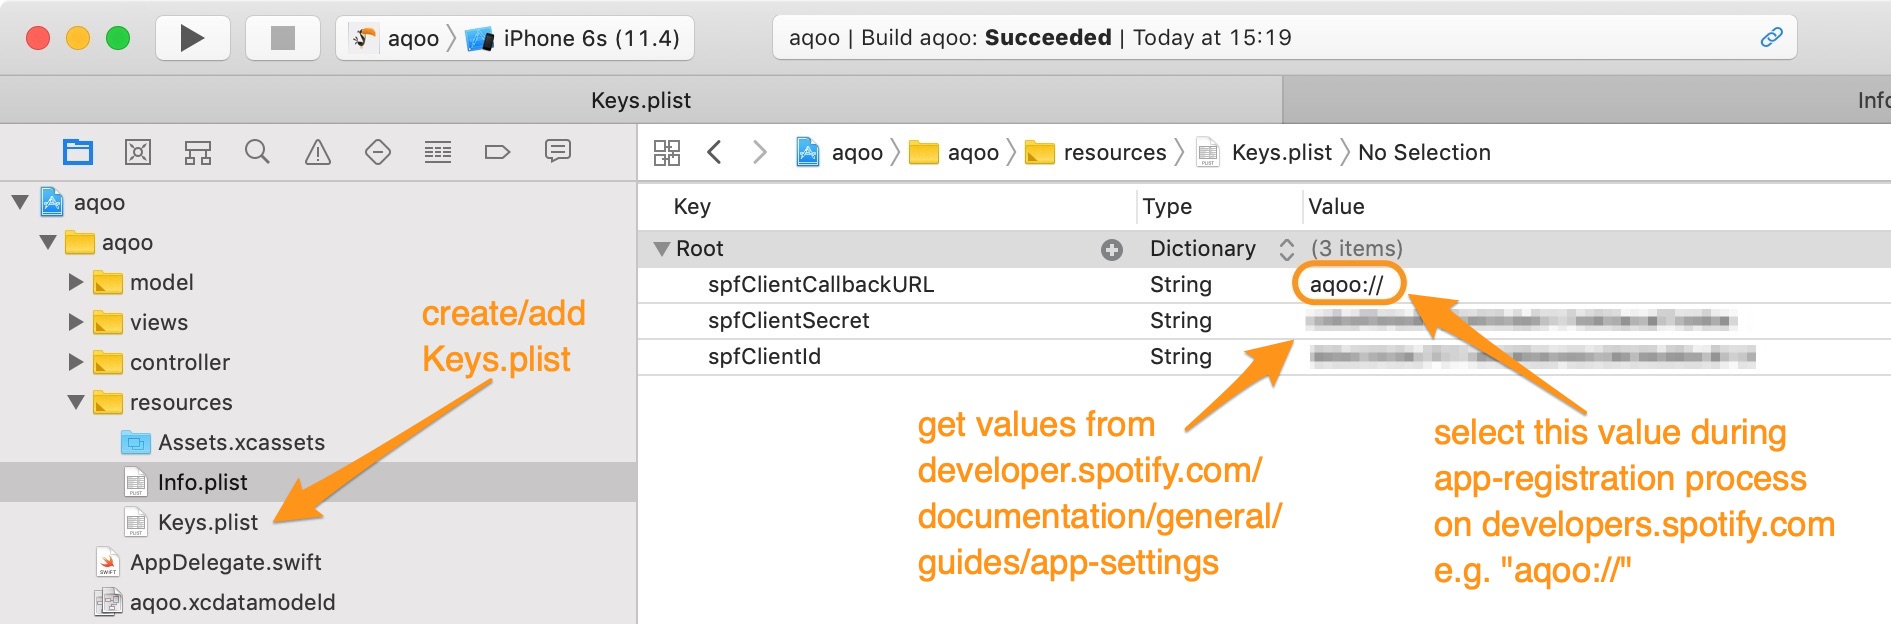
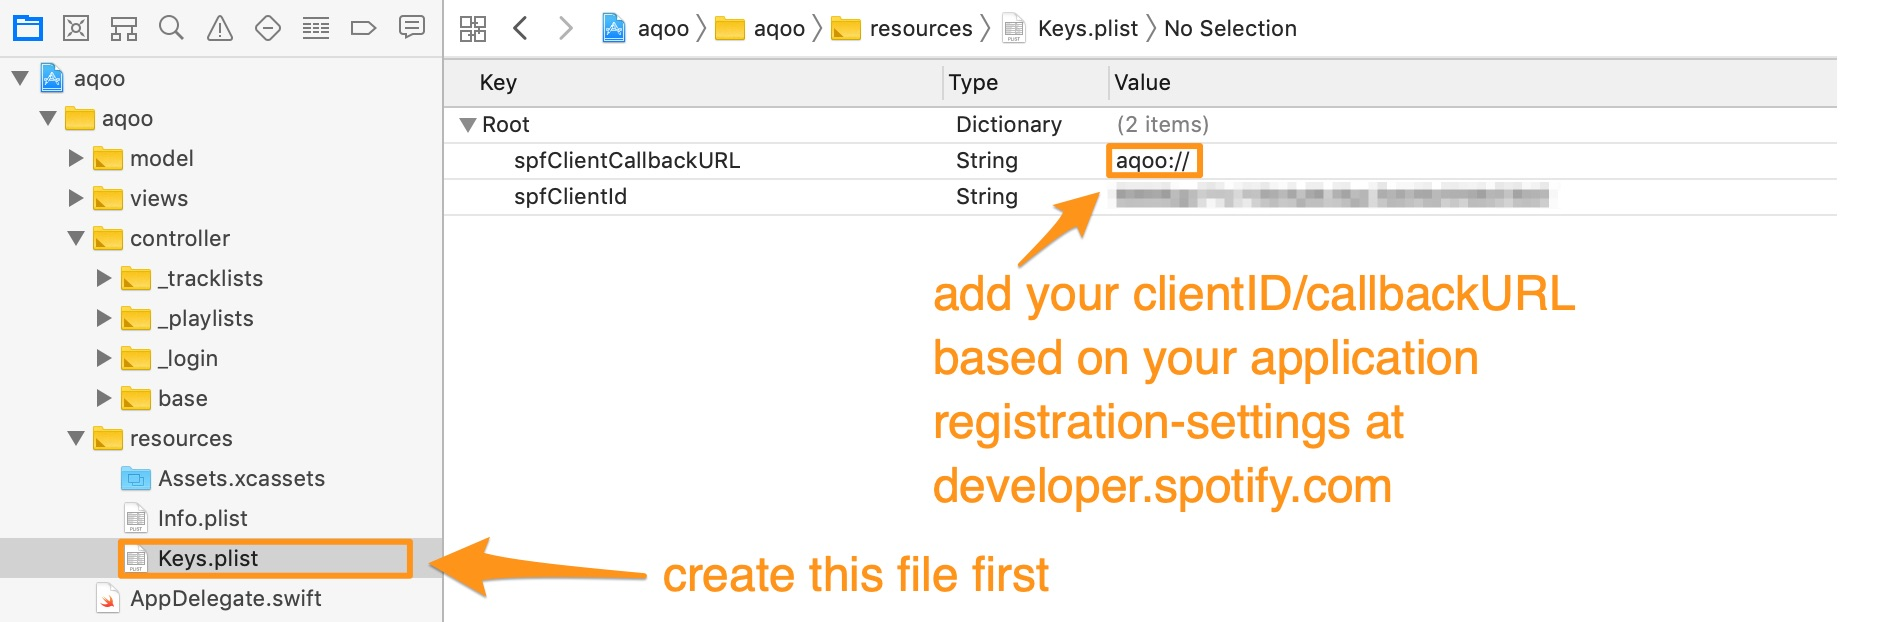
fix: api related key description in documentation

diff --git a/README.md b/README.md
@@ -46,7 +46,7 @@ ToolChain Setup | Build CleanUp
 :-------------------------:|:-------------------------:
 ![ToolChain Config](github/media/xcode_tc_setup_10_marks.jpg)  |  ![Build CleanUp](github/media/xcode_prep_cw.jpg)
 
-5. Add a new property list (plist) file into your project resource group and insert the 3 required keys (```spfClientSecret```, ```spfClientId```, ```spfClientCallbackURL```) for SpotifyAPI authentication. Generate the corresponding values for this keys from spotifies developer app  [registration formular](https://developer.spotify.com/documentation/general/guides/app-settings/#register-your-app). You can find a dedicated tuturial for this process at [medium.com](https://medium.com/@brianhans/getting-started-with-the-spotify-ios-sdk-435607216ecc).
+5. Add a new property list (plist) file into your project resource group and insert the two required keys (```spfClientId``` and ```spfClientCallbackURL```) for APP/SpotifyAPI authentication. Generate the corresponding values for this keys from spotifies developer app  [registration formular](https://developer.spotify.com/documentation/general/guides/app-settings/#register-your-app). You can find a dedicated tuturial for this process at [medium.com](https://medium.com/@brianhans/getting-started-with-the-spotify-ios-sdk-435607216ecc).
 
 ![Keys.plist file](github/media/aq_keys_plist_marks.jpg) 
 
@@ -111,7 +111,7 @@ Tracklist View | Tracklist Playback | Playlist Cover View
 * The cover image cache for the playlists may take a bit time to display the identified images in our table cells - after view refresh process (by scrolling in your playlist items or leaving this view and returning) all covers should be visible.
 * The cover image handler has changed on 2018-12-09 based on major changes of the current Spotify API endpoint - so I’ve decide to take an image from the corresponding tracklist instead of the origin cover image. *This will be changed as soon as I extend the current API structure*. 
 * The build process could break if you’re not using the latest XCode 10.1 version and the corresponding Swift binary set in version 4.2.1 - please ensure, that you’re using the right ToolChain and XCode version for this project.
-* The application will show ```client_id missing``` error if your Keys.plist file hasn’t complete or invalid value sets - please ensure, that you provide all neccessary values to your Keys.plist file. You’ve to request a valid ```client_id```and ```client_secret``` including your application ```callback_url``` from [spotify/developer](https://developer.spotify.com/documentation/general/guides/app-settings/#register-your-app) app registration page. 
+* The application will show ```client_id missing``` error if your Keys.plist file hasn’t complete or invalid value sets - please ensure, that you provide all neccessary values to your Keys.plist file. You’ve to request a valid ```client_id```and your application ```callback_url``` from [spotify/developer](https://developer.spotify.com/documentation/general/guides/app-settings/#register-your-app) app registration page. 
 
 ## Keywords
 
